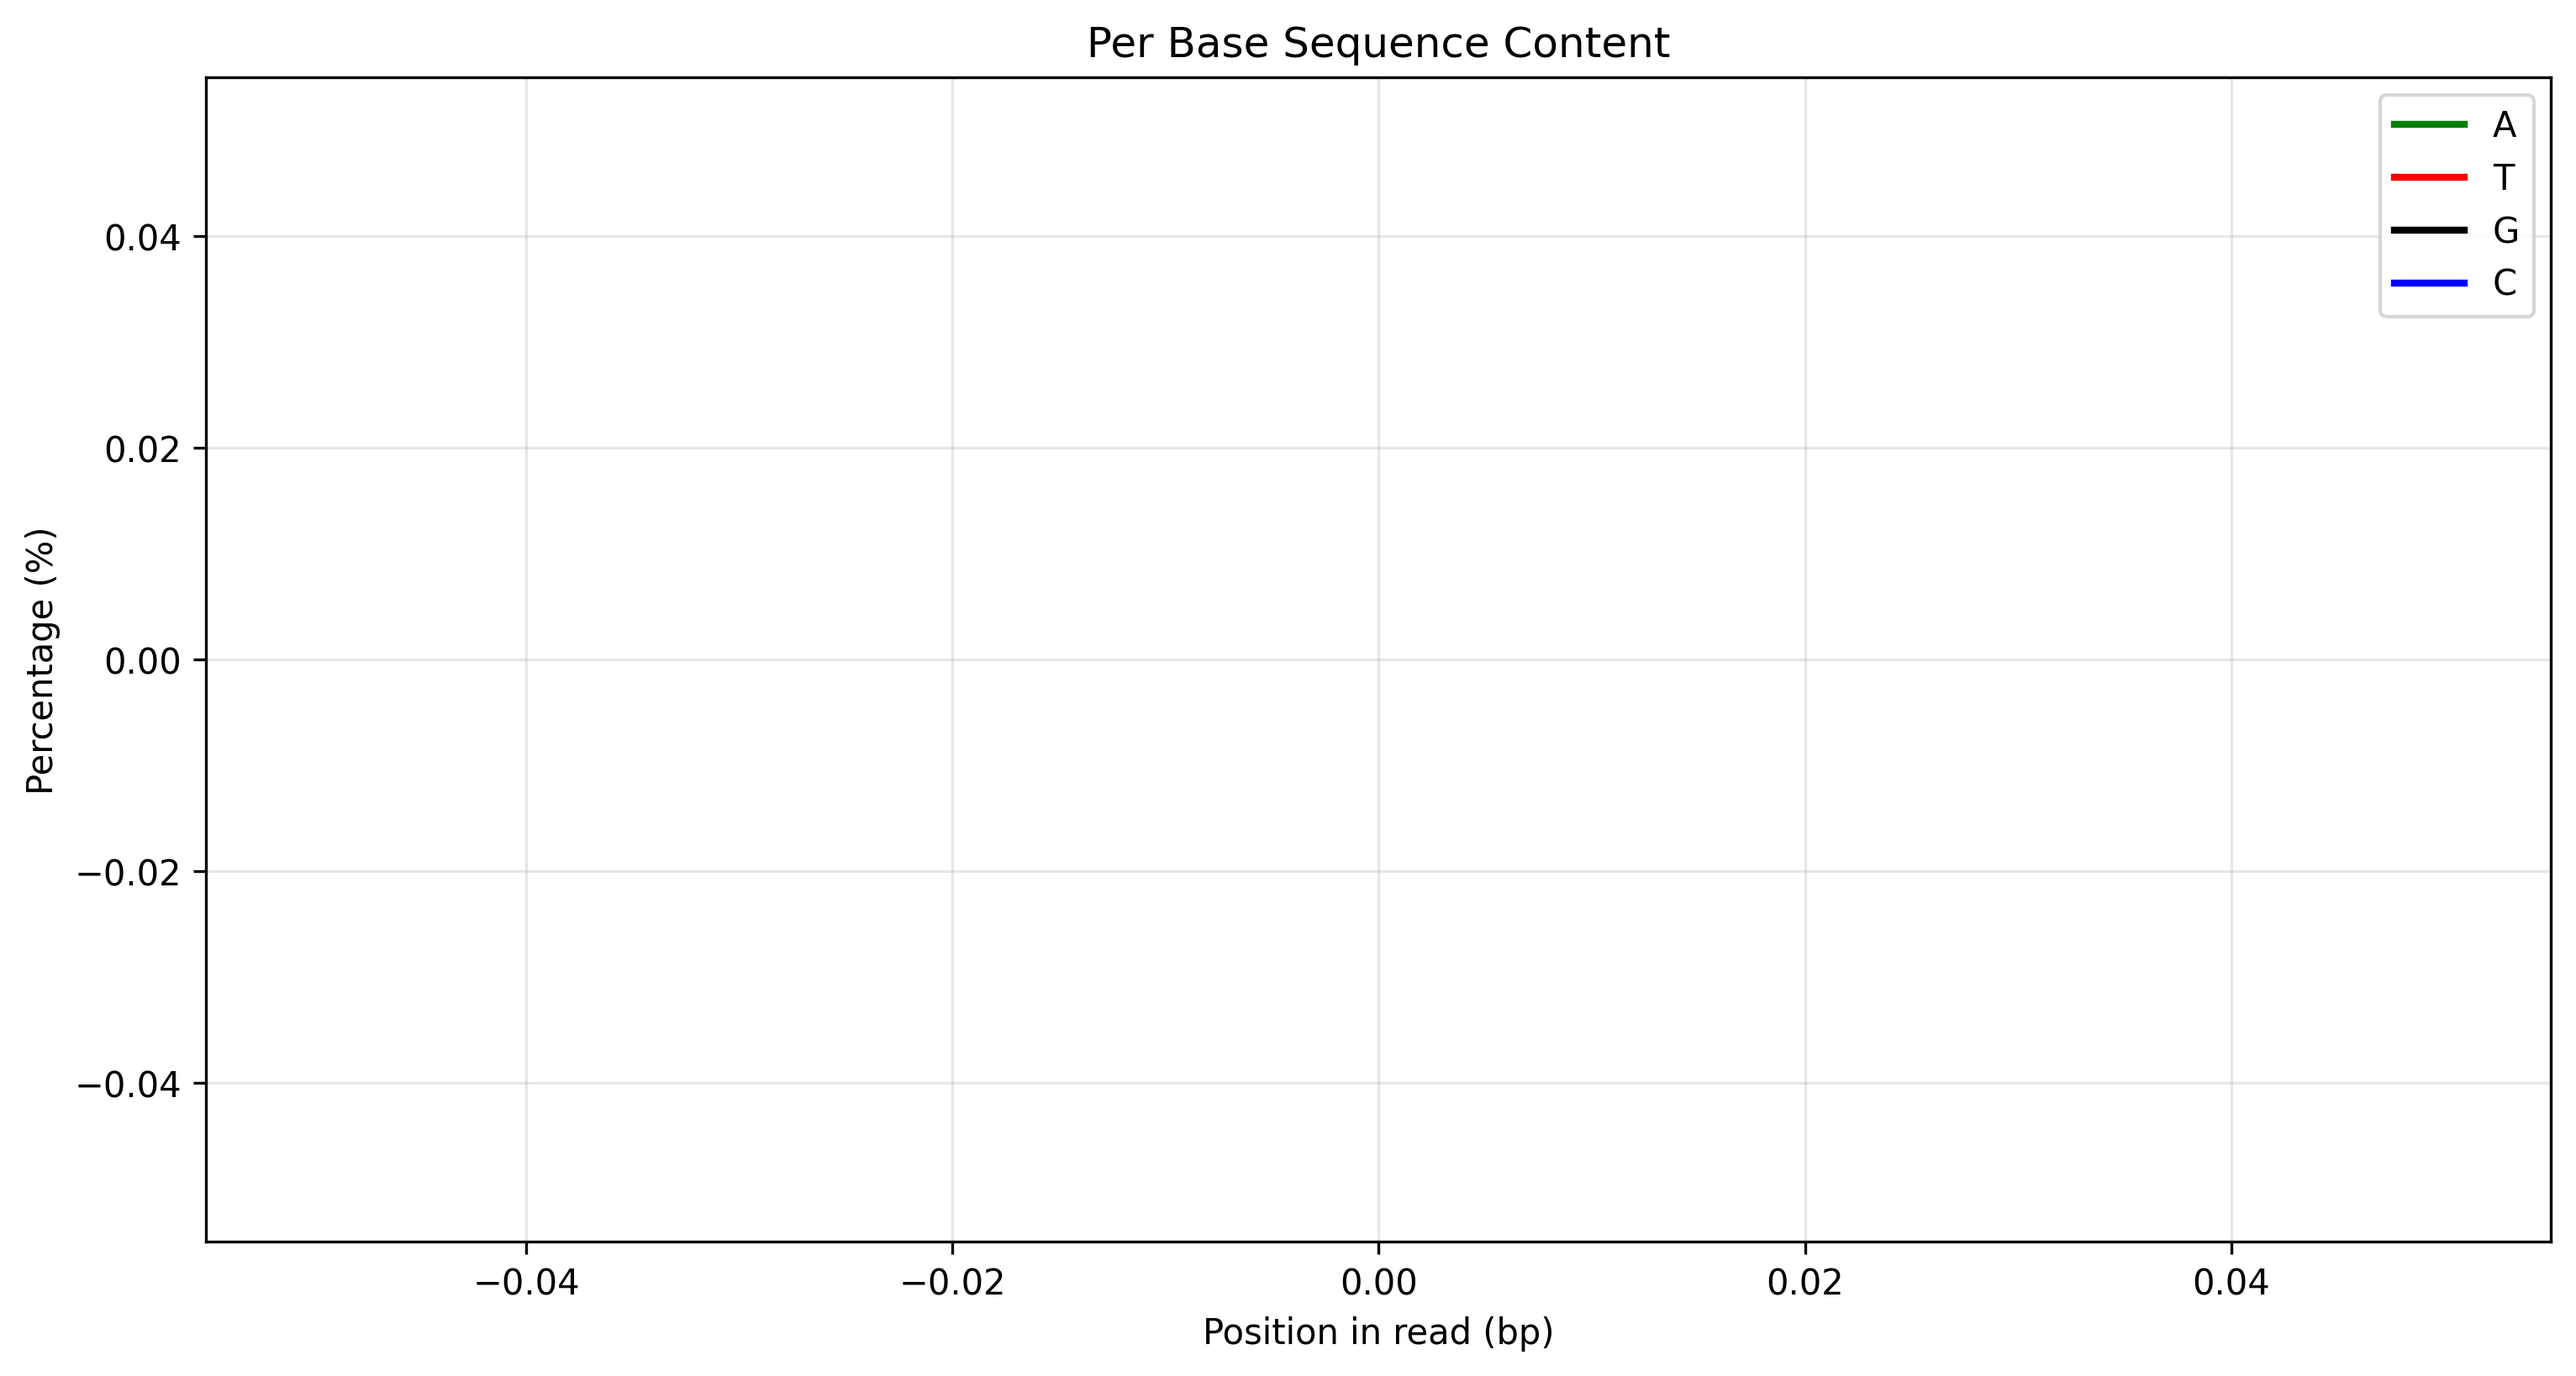
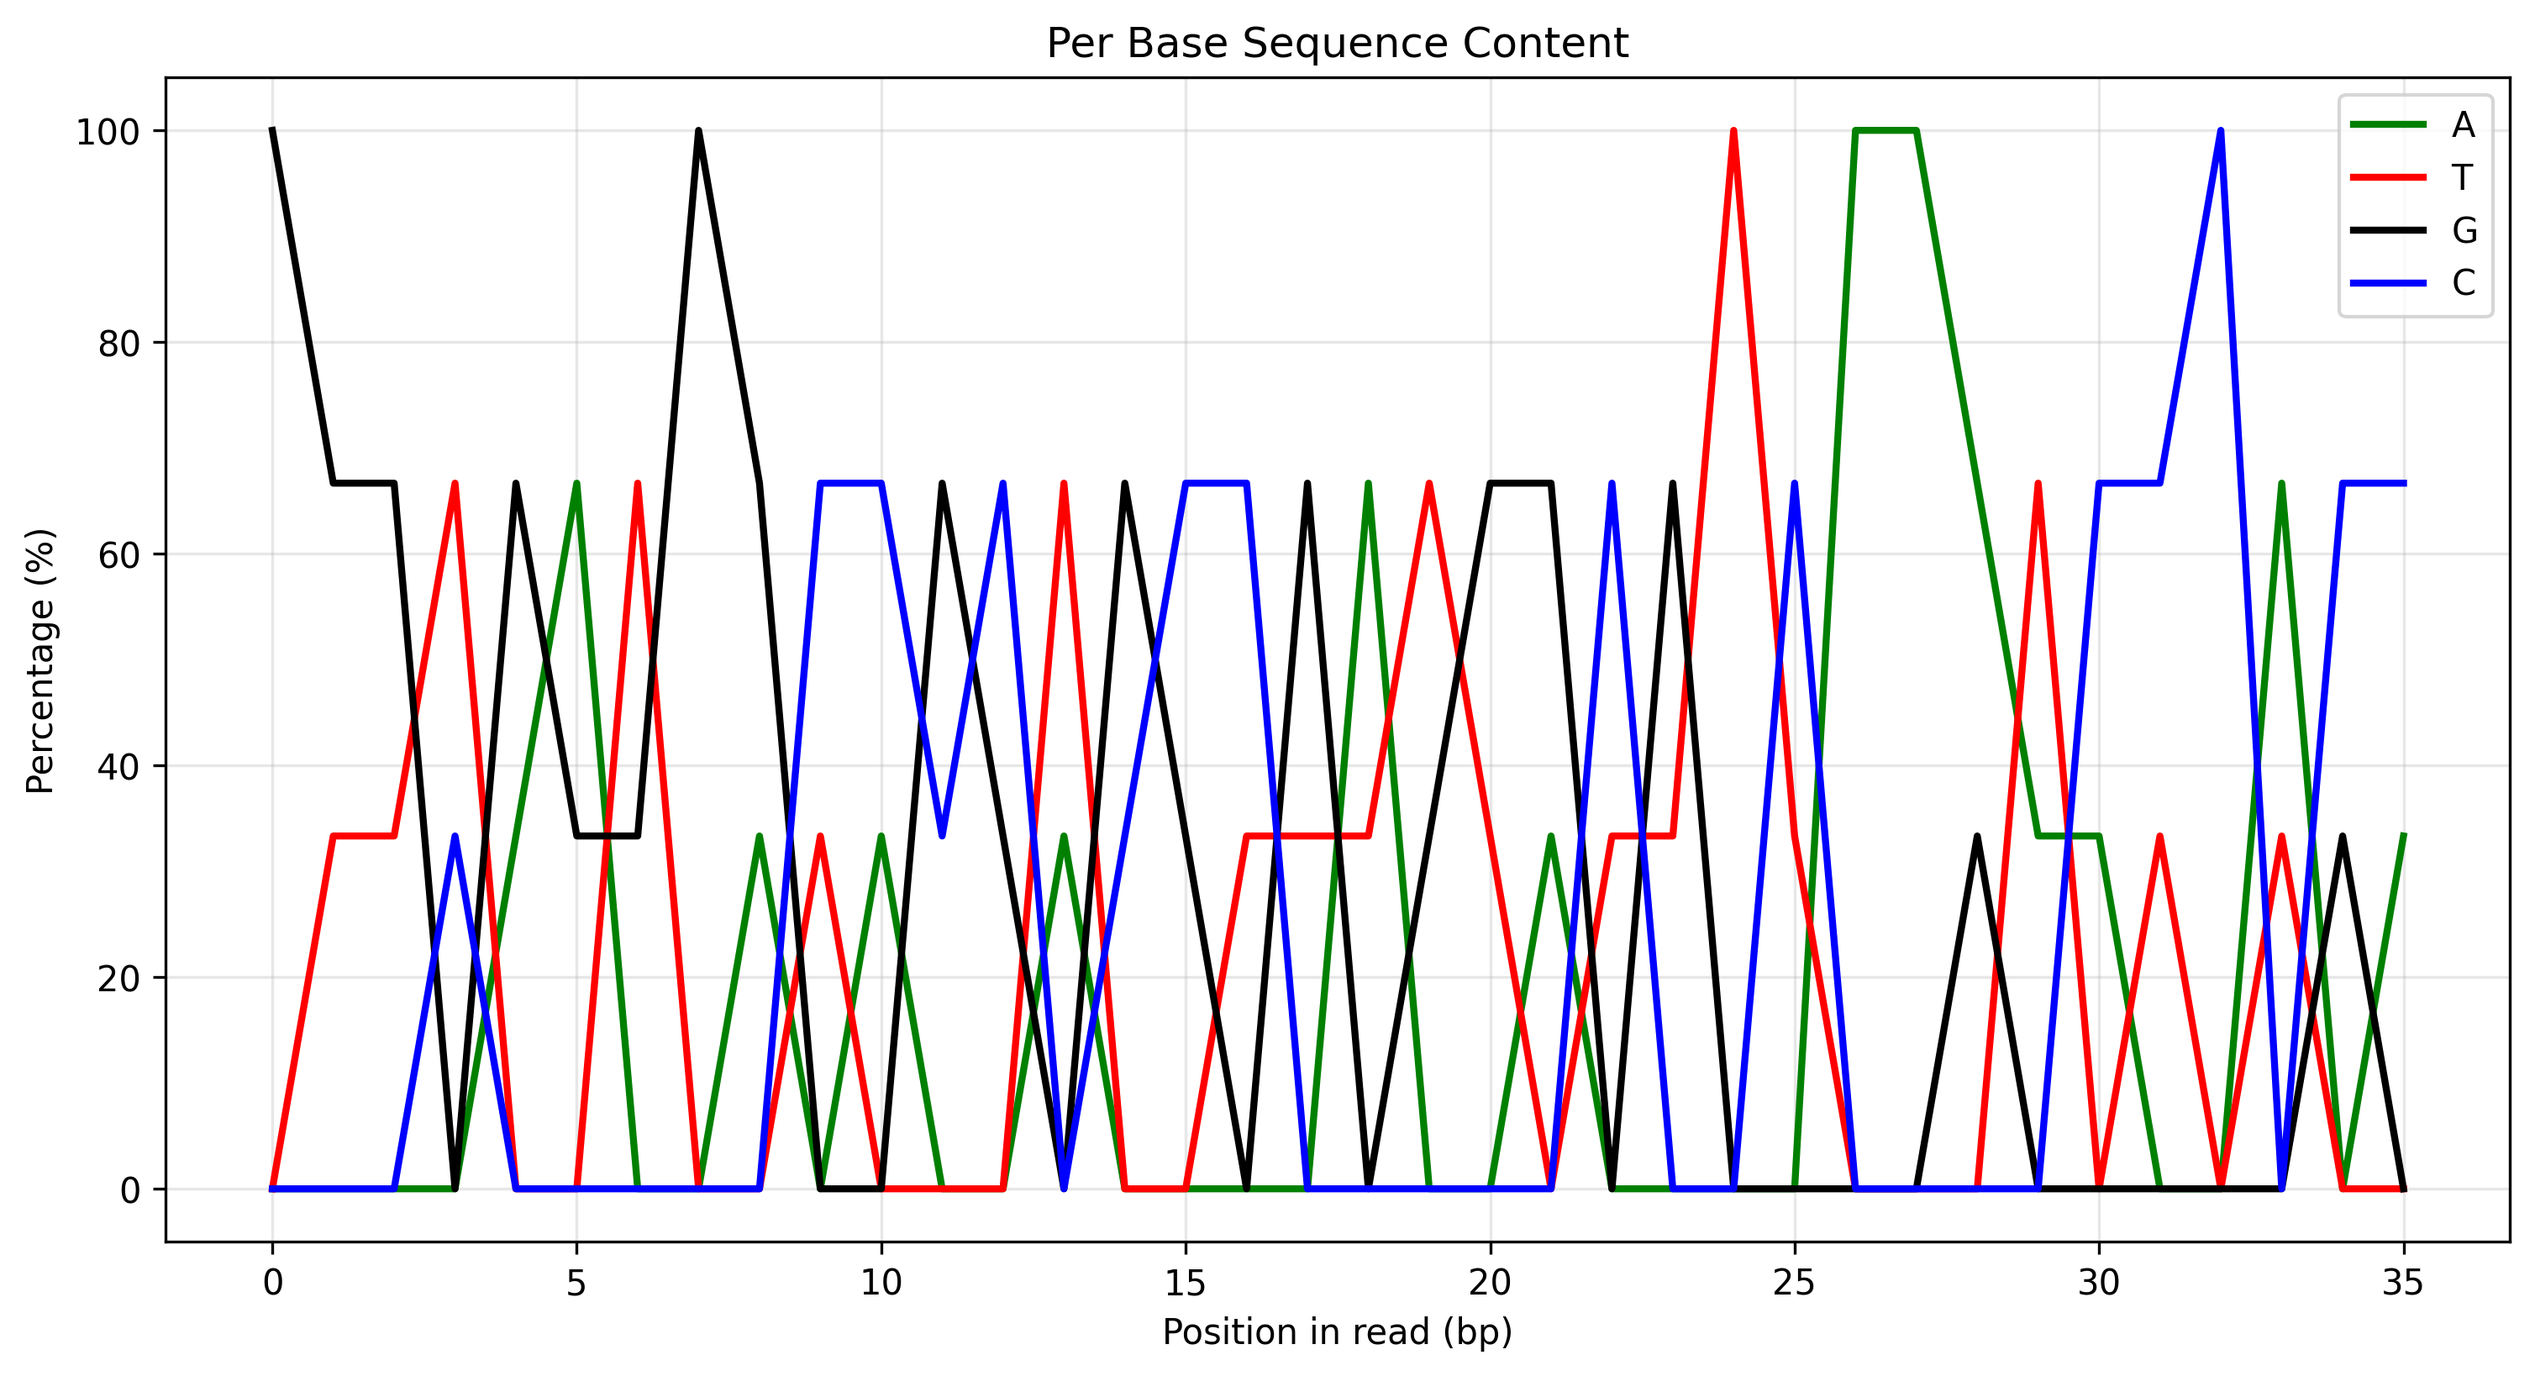
feat: generate all required FASTQ quality plots - per base quality, sequence content, and length distribution

diff --git a/bio_analyzer/fastq_analyzer.py b/bio_analyzer/fastq_analyzer.py
@@ -11,83 +11,59 @@ from .record import SequenceRecord
 class FastqAnalyzer(SequenceReader):
     """
     Анализатор FASTQ файлов.
-    
-    Поддерживает:
-    - Подсчет количества последовательностей
-    - Расчет средней длины
-    - Графики качества: per base sequence quality, per base sequence content, sequence length distribution
     """
 
     def __init__(self, filepath: str | Path):
         super().__init__(filepath)
-        self.file = None
         self._seq_count = 0
         self._total_length = 0
 
     def __enter__(self):
-        self.file = open(self.filepath, "r")
         return self
 
     def __exit__(self, exc_type, exc_value, traceback):
-        self.close()
-
-    def close(self):
-        if self.file:
-            self.file.close()
-            self.file = None
+        pass
 
     def read(self) -> Iterator[SequenceRecord]:
         """Читает последовательности из FASTQ файла."""
-        if not self.file:
-            self.file = open(self.filepath, "r")
-
-        lines = []
-        for line in self.file:
-            lines.append(line.strip())
-            if len(lines) == 4:  # FASTQ блок: header, sequence, +, quality
-                header = lines[0][1:]  # Убираем @
-                sequence = lines[1]
-                quality = lines[3]
-                
-                record = SequenceRecord(id=header, sequence=sequence)
-                
-                # Обновляем статистику
-                self._seq_count += 1
-                self._total_length += len(sequence)
-                
-                yield record
-                lines = []
+        with open(self.filepath, "r") as file:
+            lines = []
+            for line in file:
+                lines.append(line.strip())
+                if len(lines) == 4:
+                    header = lines[0][1:]
+                    sequence = lines[1]
+                    record = SequenceRecord(id=header, sequence=sequence)
+                    
+                    self._seq_count += 1
+                    self._total_length += len(sequence)
+                    
+                    yield record
+                    lines = []
 
     def get_seq_count(self) -> int:
-        """Получить количество последовательностей."""
         return self._seq_count
 
     def get_mean_seq_length(self) -> float:
-        """Получить среднюю длину последовательностей."""
         if self._seq_count == 0:
             return 0.0
         return self._total_length / self._seq_count
 
-    # ДОПОЛНИТЕЛЬНЫЕ МЕТОДЫ ДЛЯ FASTQ
-
     def phred_to_quality(self, phred_char: str, offset: int = 33) -> int:
-        """Конвертировать символ Phred в числовое значение качества."""
         return ord(phred_char) - offset
 
     def get_sequences_with_quality(self) -> Iterator[tuple]:
         """Генератор для чтения последовательностей с качеством."""
-        if not self.file:
-            self.file = open(self.filepath, "r")
-
-        lines = []
-        for line in self.file:
-            lines.append(line.strip())
-            if len(lines) == 4:
-                header = lines[0][1:]
-                sequence = lines[1]
-                quality = lines[3]
-                yield header, sequence, quality
-                lines = []
+        with open(self.filepath, "r") as file:
+            lines = []
+            for line in file:
+                lines.append(line.strip())
+                if len(lines) == 4:
+                    header = lines[0][1:]
+                    sequence = lines[1]
+                    quality = lines[3]
+                    yield header, sequence, quality
+                    lines = []
 
     def per_base_sequence_quality(self, output_file: str = "fastq_quality_plot.png"):
         """Построить график качества по позициям."""
@@ -98,11 +74,13 @@ class FastqAnalyzer(SequenceReader):
                 quality_score = self.phred_to_quality(qual_char)
                 quality_by_position[pos].append(quality_score)
         
-        # Расчет статистики
+        if not quality_by_position:
+            print("Нет данных для графика качества")
+            return output_file
+            
         positions = sorted(quality_by_position.keys())
         mean_qualities = [np.mean(quality_by_position[pos]) for pos in positions]
         
-        # Построение графика
         plt.figure(figsize=(12, 6))
         plt.plot(positions, mean_qualities, linewidth=2)
         plt.xlabel('Position in read (bp)')
@@ -112,6 +90,7 @@ class FastqAnalyzer(SequenceReader):
         plt.savefig(output_file, dpi=300, bbox_inches='tight')
         plt.close()
         
+        print(f"График качества создан: {output_file}")
         return output_file
 
     def per_base_sequence_content(self, output_file: str = "fastq_content_plot.png"):
@@ -119,17 +98,23 @@ class FastqAnalyzer(SequenceReader):
         base_content = {'A': [], 'T': [], 'G': [], 'C': []}
         max_length = 0
         
-        # Первый проход: найти максимальную длину
+        # Сначала соберем все данные
+        sequences_data = []
         for _, sequence, _ in self.get_sequences_with_quality():
+            sequences_data.append(sequence)
             max_length = max(max_length, len(sequence))
+        
+        if max_length == 0:
+            print("Нет данных для графика содержания")
+            return output_file
         
         # Инициализация списков
         for base in base_content:
             base_content[base] = [0] * max_length
         total_bases = [0] * max_length
         
-        # Второй проход: подсчет оснований
-        for _, sequence, _ in self.get_sequences_with_quality():
+        # Подсчет оснований
+        for sequence in sequences_data:
             for pos, base in enumerate(sequence):
                 if base in base_content and pos < max_length:
                     base_content[base][pos] += 1
@@ -156,6 +141,7 @@ class FastqAnalyzer(SequenceReader):
         plt.savefig(output_file, dpi=300, bbox_inches='tight')
         plt.close()
         
+        print(f"График содержания создан: {output_file}")
         return output_file
 
     def sequence_length_distribution(self, output_file: str = "fastq_length_plot.png"):
@@ -164,8 +150,12 @@ class FastqAnalyzer(SequenceReader):
         for record in self.read():
             lengths.append(len(record.sequence))
         
+        if not lengths:
+            print("Нет данных для графика распределения длин")
+            return output_file
+            
         plt.figure(figsize=(10, 6))
-        plt.hist(lengths, bins=50, alpha=0.7, edgecolor='black')
+        plt.hist(lengths, bins=20, alpha=0.7, edgecolor='black')
         plt.xlabel('Sequence Length (bp)')
         plt.ylabel('Frequency')
         plt.title('Sequence Length Distribution')
@@ -173,6 +163,7 @@ class FastqAnalyzer(SequenceReader):
         plt.savefig(output_file, dpi=300, bbox_inches='tight')
         plt.close()
         
+        print(f"График распределения длин создан: {output_file}")
         return output_file
 
 
@@ -181,21 +172,37 @@ def demo_fastq_analysis(filepath: str):
     print("=== FASTQ Analysis ===")
     print(f"File: {filepath}")
     
-    with FastqAnalyzer(filepath) as analyzer:
-        # Базовая статистика
-        sequences = list(analyzer.read())
-        
-        print(f"1. Количество последовательностей: {analyzer.get_seq_count()}")
-        print(f"2. Средняя длина последовательностей: {analyzer.get_mean_seq_length():.2f}")
-        
-        # Графики качества
-        quality_plot = analyzer.per_base_sequence_quality()
-        content_plot = analyzer.per_base_sequence_content()
-        length_plot = analyzer.sequence_length_distribution()
-        
-        print(f"3. График качества сохранен как: {quality_plot}")
-        print(f"4. График содержания нуклеотидов: {content_plot}")
-        print(f"5. Распределение длин: {length_plot}")
+    # Сначала проверим файл
+    try:
+        with open(filepath, 'r') as f:
+            first_lines = [next(f).strip() for _ in range(4)]
+        print("Файл читается:")
+        for i, line in enumerate(first_lines):
+            print(f"  {i+1}: {line[:50]}...")
+    except Exception as e:
+        print(f"❌ Ошибка чтения файла: {e}")
+        return
+    
+    analyzer = FastqAnalyzer(filepath)
+    
+    # Базовая статистика
+    sequences = list(analyzer.read())
+    print(f"1. Количество последовательностей: {analyzer.get_seq_count()}")
+    print(f"2. Средняя длина последовательностей: {analyzer.get_mean_seq_length():.2f}")
+    
+    if analyzer.get_seq_count() == 0:
+        print("Нет последовательностей для анализа!")
+        return
+    
+    # Графики качества
+    print("3. Создание графиков...")
+    quality_plot = analyzer.per_base_sequence_quality()
+    content_plot = analyzer.per_base_sequence_content()
+    length_plot = analyzer.sequence_length_distribution()
+    
+    print(f"4. График качества: {quality_plot}")
+    print(f"5. График содержания: {content_plot}")
+    print(f"6. Распределение длин: {length_plot}")
 
 
 if __name__ == "__main__":
@@ -206,4 +213,4 @@ if __name__ == "__main__":
     else:
         print("Usage: python fastq_analyzer.py <fastq_file>")
         print("Using example file...")
-        demo_fastq_analysis("examples/example.fastq")
+        demo_fastq_analysis("examples/real_fastq.fastq")
